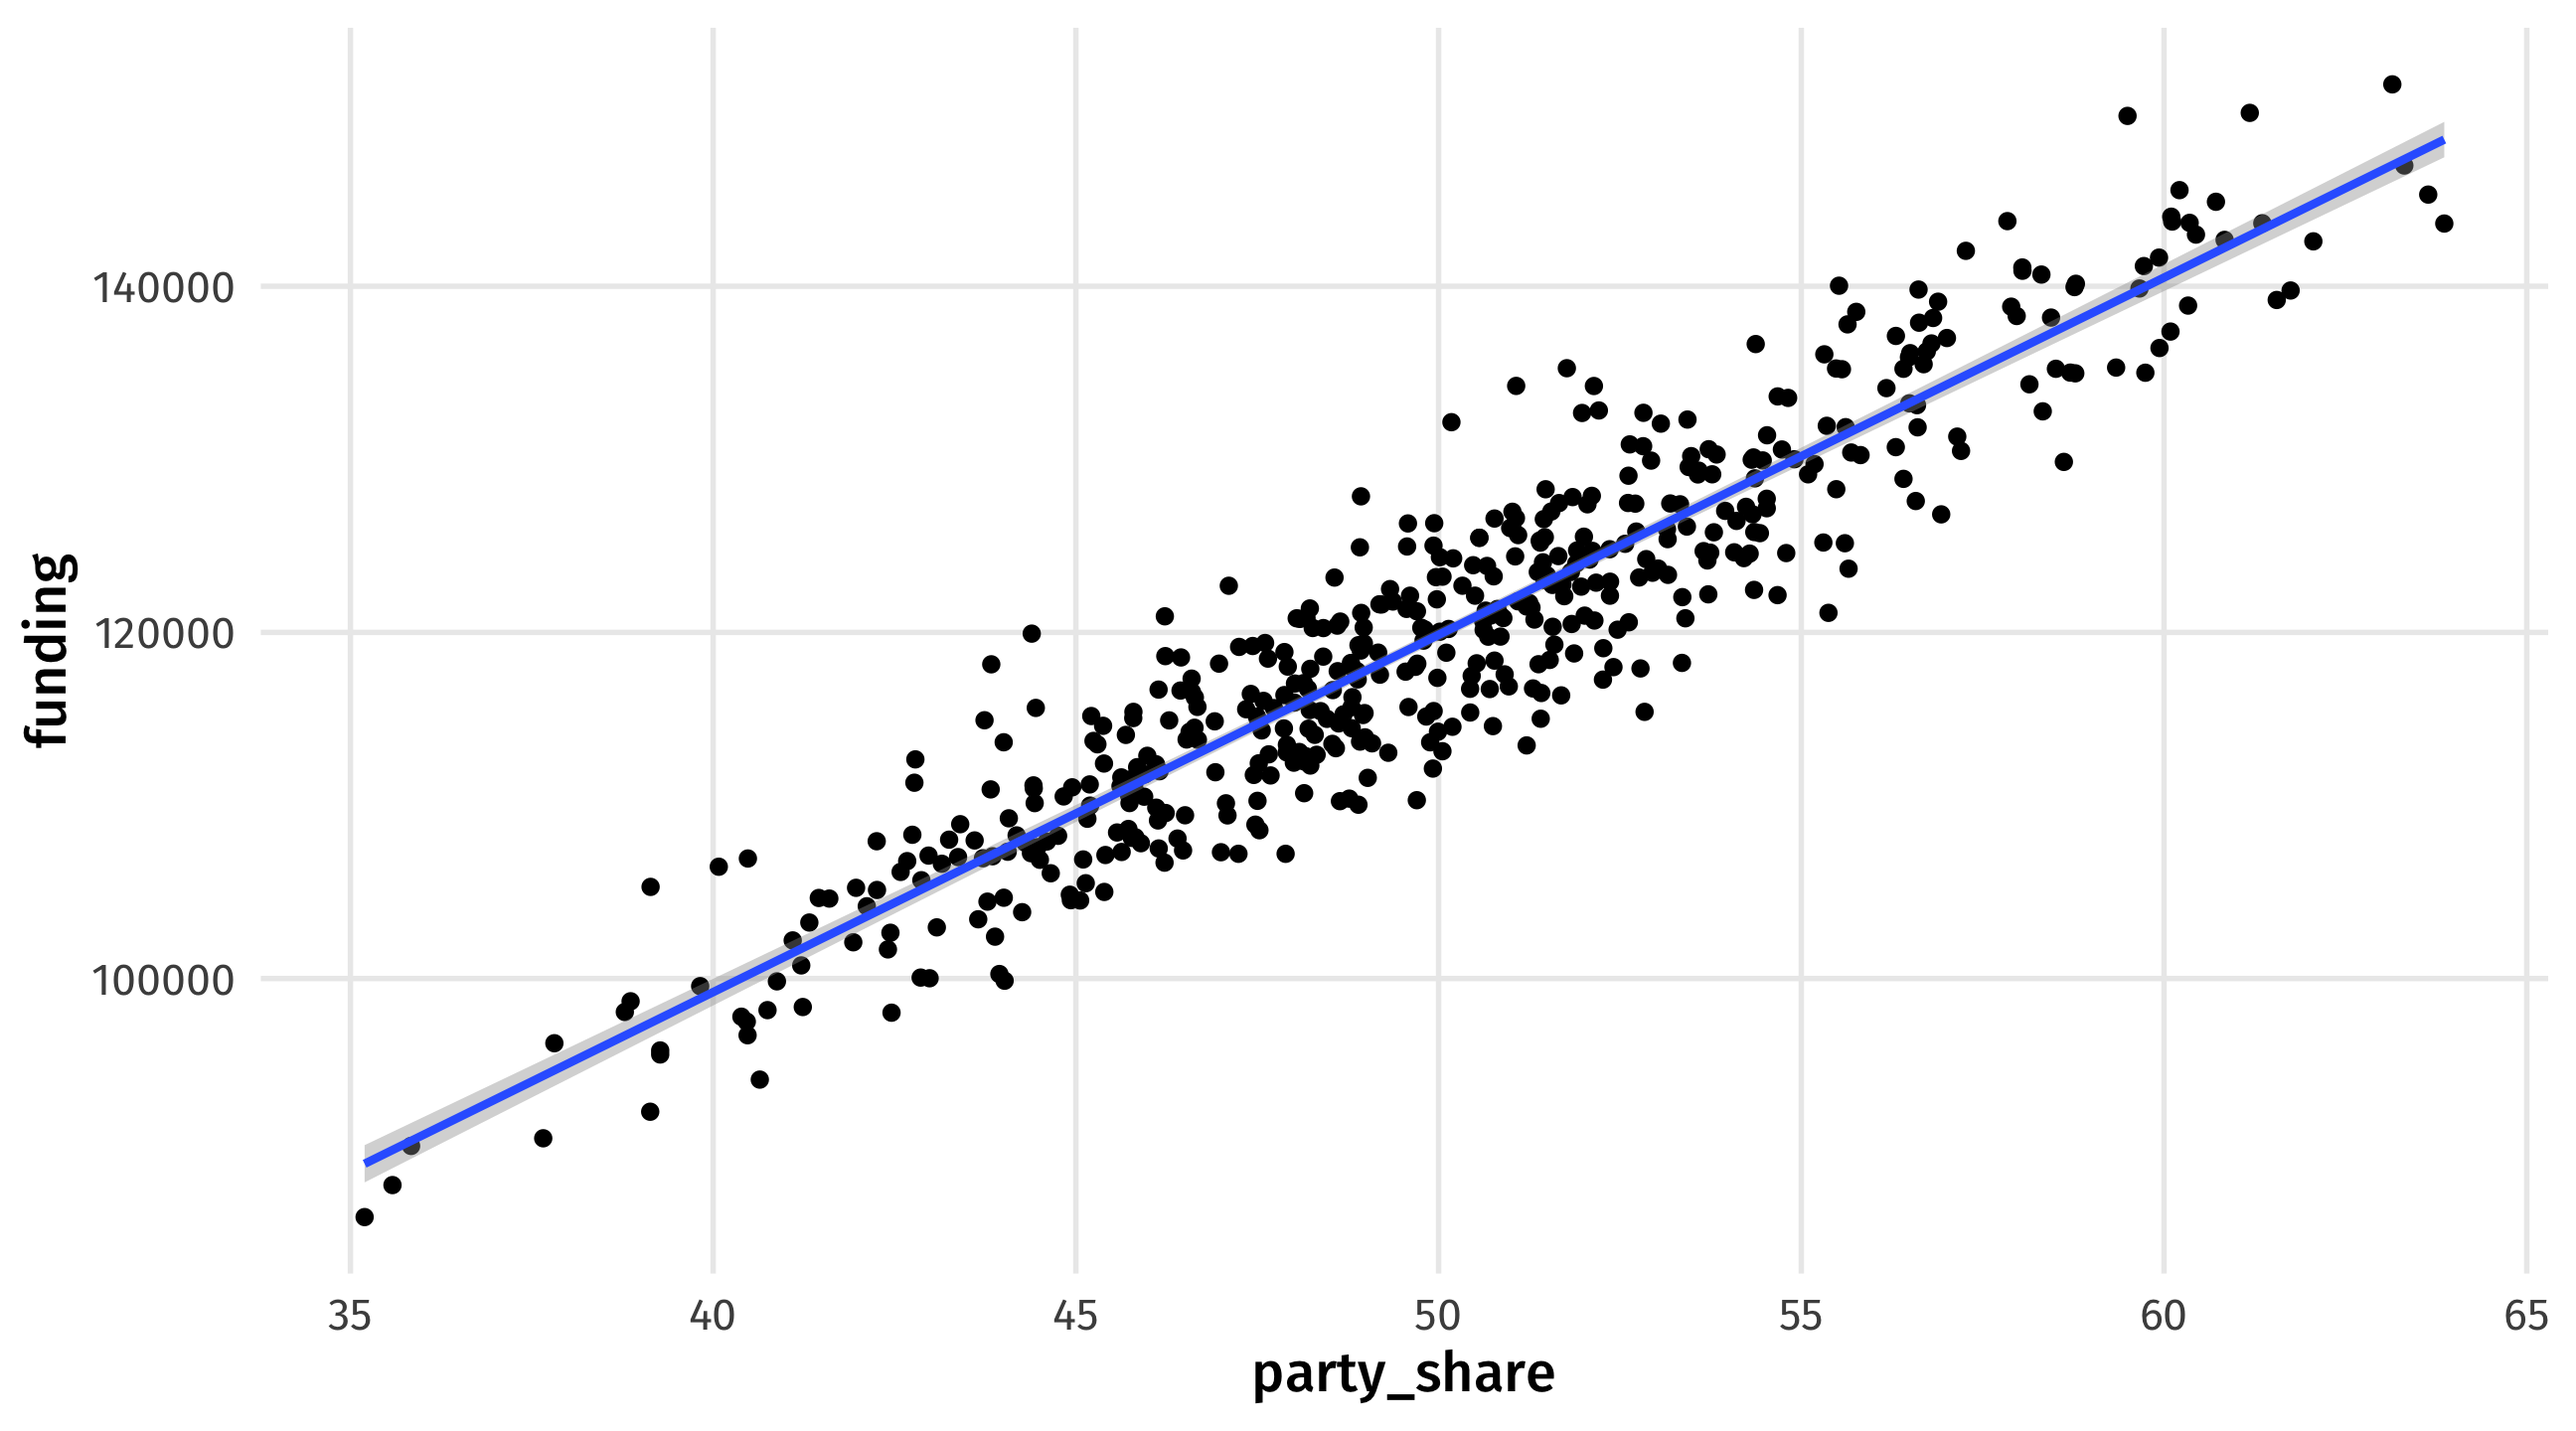
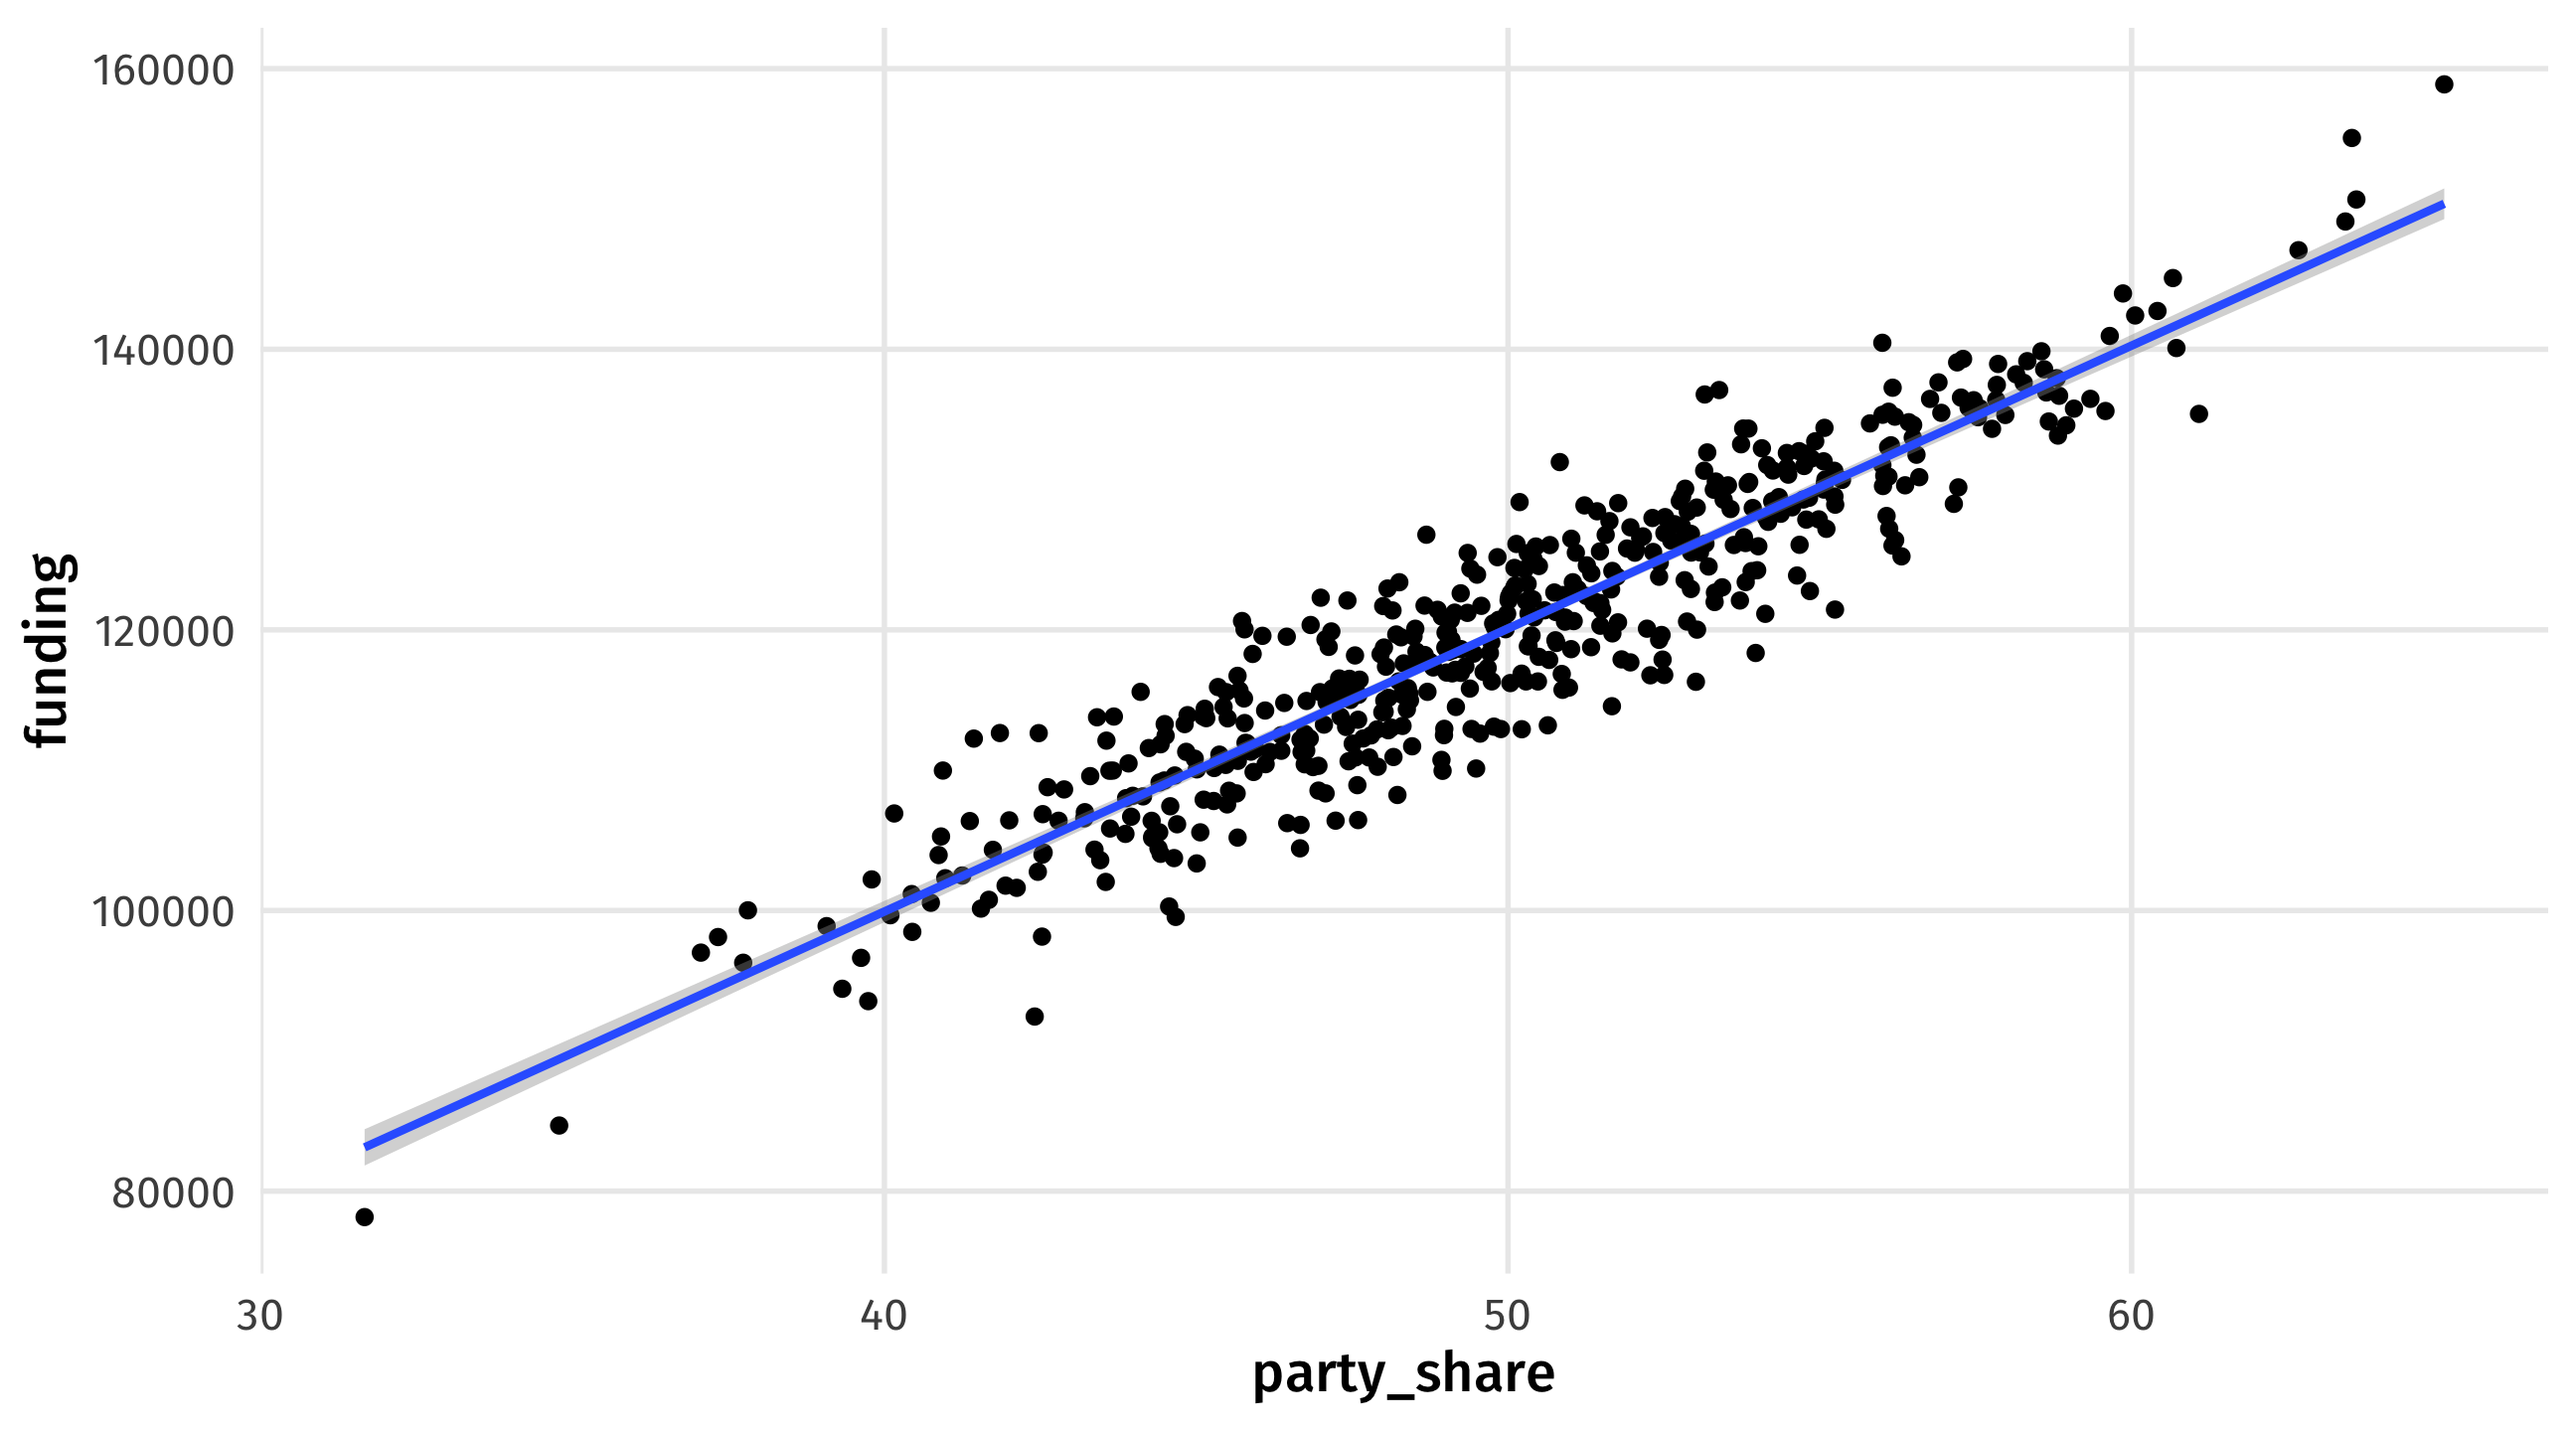
new problem set

diff --git a/_site/example/07-example.html b/_site/example/07-example.html
@@ -145,6 +145,7 @@ pre > code.sourceCode > span > a:first-child::before { text-decoration: underlin
   <ul>
   <li><a href="#in-class-example" id="toc-in-class-example" class="nav-link active" data-scroll-target="#in-class-example">In-class example</a></li>
   <li><a href="#class-make-up-a-relationship" id="toc-class-make-up-a-relationship" class="nav-link" data-scroll-target="#class-make-up-a-relationship">class: make up a relationship</a></li>
+  <li><a href="#class-confounds" id="toc-class-confounds" class="nav-link" data-scroll-target="#class-confounds">class: confounds</a></li>
   </ul>
 </nav>
     </div>
@@ -183,7 +184,7 @@ pre > code.sourceCode > span > a:first-child::before { text-decoration: underlin
 <div class="cell" data-layout-align="center">
 <div class="sourceCode cell-code" id="cb1"><pre class="sourceCode r code-with-copy"><code class="sourceCode r"><span id="cb1-1"><a href="#cb1-1" aria-hidden="true" tabindex="-1"></a><span class="fu">rnorm</span>(<span class="at">n =</span> <span class="dv">5</span>, <span class="at">mean =</span> <span class="dv">10</span>, <span class="at">sd =</span> <span class="dv">2</span>)</span></code><button title="Copy to Clipboard" class="code-copy-button"><i class="bi"></i></button></pre></div>
 <div class="cell-output cell-output-stdout">
-<pre><code>[1] 9.581501 8.896386 8.533690 8.053953 9.849181</code></pre>
+<pre><code>[1]  8.581553 15.015173 10.039090 10.262454  8.402416</code></pre>
 </div>
 </div>
 <p>We made up this data:</p>
@@ -195,16 +196,16 @@ pre > code.sourceCode > span > a:first-child::before { text-decoration: underlin
 <pre><code># A tibble: 500 × 2
    party_share funding
          &lt;dbl&gt;   &lt;dbl&gt;
- 1        52.4 117994.
- 2        55.8 138521.
- 3        47.1 109426.
- 4        54.3 130109.
- 5        44.4 115638.
- 6        60.1 144020.
- 7        60.3 138884.
- 8        48.1 112544.
- 9        42.3 105118.
-10        47.1 122695.
+ 1        48.1 122947.
+ 2        49.2 118628.
+ 3        47.1 114853.
+ 4        53.2 132646.
+ 5        49.8 120458.
+ 6        53.6 126049.
+ 7        45.5 115563.
+ 8        45.7 120630.
+ 9        45.9 118284.
+10        53.1 125523.
 # ℹ 490 more rows</code></pre>
 </div>
 </div>
@@ -227,27 +228,59 @@ pre > code.sourceCode > span > a:first-child::before { text-decoration: underlin
 <pre><code># A tibble: 2 × 5
   term        estimate std.error statistic   p.value
   &lt;chr&gt;          &lt;dbl&gt;     &lt;dbl&gt;     &lt;dbl&gt;     &lt;dbl&gt;
-1 (Intercept)   16643.    1761.       9.45 1.32e- 19
-2 party_share    2064.      35.1     58.8  2.54e-226</code></pre>
+1 (Intercept)   19261.    1747.       11.0 1.93e- 25
+2 party_share    2017.      34.9      57.9 3.55e-223</code></pre>
 </div>
 </div>
 <p>It’s close but not perfect because there is “noise” in our data. These numbers are <em>randomly</em> generated!</p>
-<!-- ## class: confounds -->
-<!-- Here we want to make it so a third variable, "the south", confounds the relationship between the number of waffle houses in a state and the divorce rate: -->
-<!-- ```{r, echo = TRUE} -->
-<!-- fake = tibble(south = sample(c(0, 1), size = 50, replace = TRUE),  -->
-<!--               waffle = rnorm(n = 50, mean = 20, sd = 4) + 10 * south, -->
-<!--               divorce = rnorm(n = 50, mean = 20, sd = 2) + 8 * south) -->
-<!-- fake -->
-<!-- ``` -->
-<!-- We can plot: -->
-<!-- ```{r} -->
-<!-- ggplot(fake, (aes(x = waffle, y = divorce))) + geom_point() + geom_smooth(method = "lm") -->
-<!-- ``` -->
-<!-- We can model to retrieve the confounded estimate: -->
-<!-- ```{r} -->
-<!-- lm(divorce ~ waffle, data = fake) |> broom::tidy() -->
-<!-- ``` -->
+</section>
+<section id="class-confounds" class="level2">
+<h2 data-anchor-id="class-confounds">class: confounds</h2>
+<p>Here we want to make it so a third variable, “the south”, confounds the relationship between the number of waffle houses in a state and the divorce rate:</p>
+<div class="cell" data-layout-align="center">
+<div class="sourceCode cell-code" id="cb8"><pre class="sourceCode r code-with-copy"><code class="sourceCode r"><span id="cb8-1"><a href="#cb8-1" aria-hidden="true" tabindex="-1"></a>fake <span class="ot">=</span> <span class="fu">tibble</span>(<span class="at">south =</span> <span class="fu">sample</span>(<span class="fu">c</span>(<span class="dv">0</span>, <span class="dv">1</span>), <span class="at">size =</span> <span class="dv">50</span>, <span class="at">replace =</span> <span class="cn">TRUE</span>),</span>
+<span id="cb8-2"><a href="#cb8-2" aria-hidden="true" tabindex="-1"></a>              <span class="at">waffle =</span> <span class="fu">rnorm</span>(<span class="at">n =</span> <span class="dv">50</span>, <span class="at">mean =</span> <span class="dv">20</span>, <span class="at">sd =</span> <span class="dv">4</span>) <span class="sc">+</span> <span class="dv">10</span> <span class="sc">*</span> south,</span>
+<span id="cb8-3"><a href="#cb8-3" aria-hidden="true" tabindex="-1"></a>              <span class="at">divorce =</span> <span class="fu">rnorm</span>(<span class="at">n =</span> <span class="dv">50</span>, <span class="at">mean =</span> <span class="dv">20</span>, <span class="at">sd =</span> <span class="dv">2</span>) <span class="sc">+</span> <span class="dv">8</span> <span class="sc">*</span> south)</span>
+<span id="cb8-4"><a href="#cb8-4" aria-hidden="true" tabindex="-1"></a>fake</span></code><button title="Copy to Clipboard" class="code-copy-button"><i class="bi"></i></button></pre></div>
+<div class="cell-output cell-output-stdout">
+<pre><code># A tibble: 50 × 3
+   south waffle divorce
+   &lt;dbl&gt;  &lt;dbl&gt;   &lt;dbl&gt;
+ 1     1   31.7    30.2
+ 2     1   24.1    24.7
+ 3     1   26.2    30.3
+ 4     0   18.4    19.0
+ 5     0   23.3    21.6
+ 6     1   33.2    26.1
+ 7     1   30.7    28.1
+ 8     0   11.7    19.9
+ 9     0   22.1    15.5
+10     0   19.0    21.3
+# ℹ 40 more rows</code></pre>
+</div>
+</div>
+<p>We can plot:</p>
+<div class="cell" data-layout-align="center">
+<div class="sourceCode cell-code" id="cb10"><pre class="sourceCode r code-with-copy"><code class="sourceCode r"><span id="cb10-1"><a href="#cb10-1" aria-hidden="true" tabindex="-1"></a><span class="fu">ggplot</span>(fake, (<span class="fu">aes</span>(<span class="at">x =</span> waffle, <span class="at">y =</span> divorce))) <span class="sc">+</span> <span class="fu">geom_point</span>() <span class="sc">+</span> <span class="fu">geom_smooth</span>(<span class="at">method =</span> <span class="st">"lm"</span>)</span></code><button title="Copy to Clipboard" class="code-copy-button"><i class="bi"></i></button></pre></div>
+<div class="cell-output-display">
+<div class="quarto-figure quarto-figure-center">
+<figure class="figure">
+<p><img src="07-example_files/figure-html/unnamed-chunk-6-1.png" class="img-fluid quarto-figure quarto-figure-center figure-img" style="width:100.0%"></p>
+</figure>
+</div>
+</div>
+</div>
+<p>We can model to retrieve the confounded estimate:</p>
+<div class="cell" data-layout-align="center">
+<div class="sourceCode cell-code" id="cb11"><pre class="sourceCode r code-with-copy"><code class="sourceCode r"><span id="cb11-1"><a href="#cb11-1" aria-hidden="true" tabindex="-1"></a><span class="fu">lm</span>(divorce <span class="sc">~</span> waffle, <span class="at">data =</span> fake) <span class="sc">|&gt;</span> broom<span class="sc">::</span><span class="fu">tidy</span>()</span></code><button title="Copy to Clipboard" class="code-copy-button"><i class="bi"></i></button></pre></div>
+<div class="cell-output cell-output-stdout">
+<pre><code># A tibble: 2 × 5
+  term        estimate std.error statistic     p.value
+  &lt;chr&gt;          &lt;dbl&gt;     &lt;dbl&gt;     &lt;dbl&gt;       &lt;dbl&gt;
+1 (Intercept)   12.5      2.07        6.03 0.000000226
+2 waffle         0.443    0.0823      5.38 0.00000218 </code></pre>
+</div>
+</div>
 
 
 </section>

diff --git a/_site/assignment/07-assignment.html b/_site/assignment/07-assignment.html
@@ -139,13 +139,14 @@ ul.task-list li input[type="checkbox"] {
 <section id="instructions" class="level2">
 <h2 data-anchor-id="instructions">Instructions</h2>
 <ol type="1">
-<li>Download this: <i class="far fa-file-archive"></i> <a href="../problem-sets/ps-causality.Rmd"><code>ps-causality</code></a>
+<li>Download this: <i class="far fa-file-archive"></i> <a href="../problem-sets/f24/ps-causality.qmd"><code>ps-causality.qmd</code></a>
 <ul>
 <li>right-click, “save/download file as…”</li>
 </ul></li>
-<li>Complete all of the coding tasks in the <code>.Rmd</code> file</li>
-<li><strong>Once you are done</strong>, go on Canvas and answer the questions related to the assignment</li>
-<li>You will submit your <code>.Rmd</code> file in the Canvas assignment</li>
+<li>Upload to Posit Cloud</li>
+<li>Complete all of the coding tasks, <strong>write down your answers to the questions</strong>, and save the file</li>
+<li><strong>Once you are done</strong>, export the <code>.qmd</code> file and go on Canvas and answer the questions related to the assignment</li>
+<li>You will submit your <code>.qmd</code> file in the Canvas assignment</li>
 </ol>
 </section>
 <section id="tips" class="level2">

diff --git a/_site/schedule.html b/_site/schedule.html
@@ -310,7 +310,7 @@ Nov 4 / Nov 6
 <a href="./example/07-example.html"><i class="fa-solid fa-laptop-code fa-lg"></i></a>
 </td>
 <td style="text-align:center;">
-<font color="#e9ecef"><i class="fa-solid fa-pen-ruler fa-lg"></i></font>
+<a href="./assignment/07-assignment.html"><i class="fa-solid fa-pen-ruler fa-lg"></i></a>
 </td>
 </tr>
 <tr>
